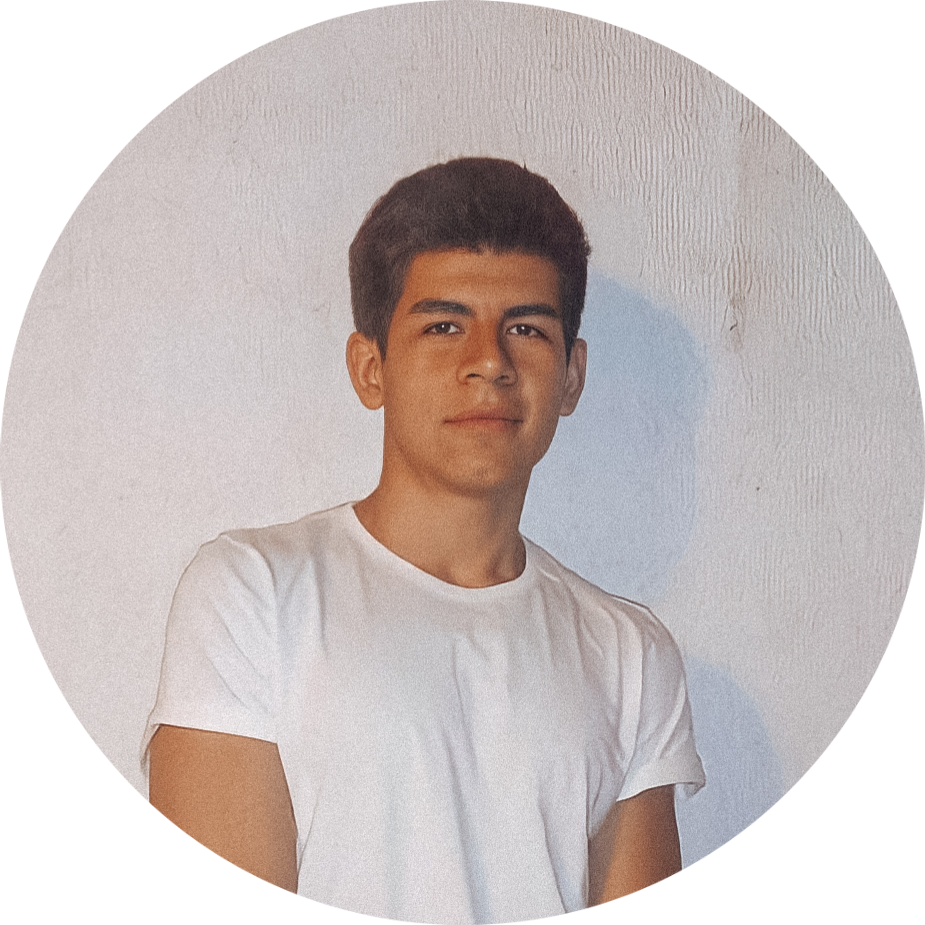
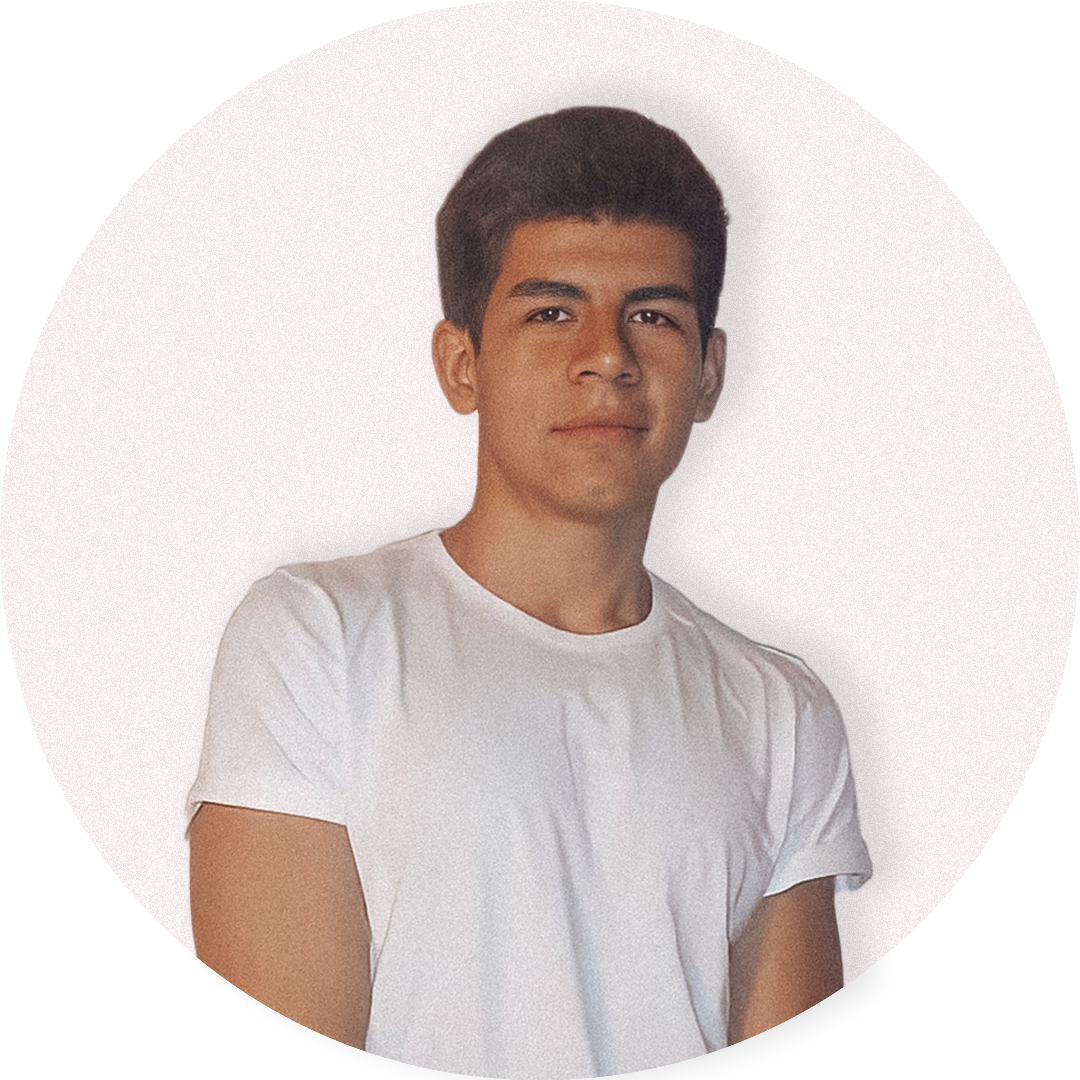
nineteenth commit

diff --git a/tailwind.config.js b/tailwind.config.js
@@ -3,128 +3,13 @@ export default {
   content: [
     "./index.html",
     "./src/**/*.{js,ts,jsx,tsx}",
-
-    // Path to the Tremor module
-    "./node_modules/@tremor/**/*.{js,ts,jsx,tsx}",
   ],
   theme: {
-    transparent: "transparent",
-    current: "currentColor",
     extend: {
       colors: {
-        // light mode
-        tremor: {
-          brand: {
-            faint: "#eff6ff", // blue-50
-            muted: "#bfdbfe", // blue-200
-            subtle: "#60a5fa", // blue-400
-            DEFAULT: "#3b82f6", // blue-500
-            emphasis: "#1d4ed8", // blue-700
-            inverted: "#ffffff", // white
-          },
-          background: {
-            muted: "#f9fafb", // gray-50
-            subtle: "#f3f4f6", // gray-100
-            DEFAULT: "#ffffff", // white
-            emphasis: "#374151", // gray-700
-          },
-          border: {
-            DEFAULT: "#e5e7eb", // gray-200
-          },
-          ring: {
-            DEFAULT: "#e5e7eb", // gray-200
-          },
-          content: {
-            subtle: "#9ca3af", // gray-400
-            DEFAULT: "#6b7280", // gray-500
-            emphasis: "#374151", // gray-700
-            strong: "#111827", // gray-900
-            inverted: "#ffffff", // white
-          },
-        },
-        // dark mode
-        "dark-tremor": {
-          brand: {
-            faint: "#0B1229", // custom
-            muted: "#172554", // blue-950
-            subtle: "#1e40af", // blue-800
-            DEFAULT: "#3b82f6", // blue-500
-            emphasis: "#60a5fa", // blue-400
-            inverted: "#030712", // gray-950
-          },
-          background: {
-            muted: "#131A2B", // custom
-            subtle: "#1f2937", // gray-800
-            DEFAULT: "#111827", // gray-900
-            emphasis: "#d1d5db", // gray-300
-          },
-          border: {
-            DEFAULT: "#1f2937", // gray-800
-          },
-          ring: {
-            DEFAULT: "#1f2937", // gray-800
-          },
-          content: {
-            subtle: "#4b5563", // gray-600
-            DEFAULT: "#6b7280", // gray-500
-            emphasis: "#e5e7eb", // gray-200
-            strong: "#f9fafb", // gray-50
-            inverted: "#000000", // black
-          },
-        },
-      },
-      boxShadow: {
-        // light
-        "tremor-input": "0 1px 2px 0 rgb(0 0 0 / 0.05)",
-        "tremor-card": "0 1px 3px 0 rgb(0 0 0 / 0.1), 0 1px 2px -1px rgb(0 0 0 / 0.1)",
-        "tremor-dropdown": "0 4px 6px -1px rgb(0 0 0 / 0.1), 0 2px 4px -2px rgb(0 0 0 / 0.1)",
-        // dark
-        "dark-tremor-input": "0 1px 2px 0 rgb(0 0 0 / 0.05)",
-        "dark-tremor-card": "0 1px 3px 0 rgb(0 0 0 / 0.1), 0 1px 2px -1px rgb(0 0 0 / 0.1)",
-        "dark-tremor-dropdown": "0 4px 6px -1px rgb(0 0 0 / 0.1), 0 2px 4px -2px rgb(0 0 0 / 0.1)",
-      },
-      borderRadius: {
-        "tremor-small": "0.375rem",
-        "tremor-default": "0.5rem",
-        "tremor-full": "9999px",
-      },
-      fontSize: {
-        "tremor-label": ["0.75rem"],
-        "tremor-default": ["0.875rem", { lineHeight: "1.25rem" }],
-        "tremor-title": ["1.125rem", { lineHeight: "1.75rem" }],
-        "tremor-metric": ["1.875rem", { lineHeight: "2.25rem" }],
       },
     },
   },
-  safelist: [
-    {
-      pattern:
-        /^(bg-(?:slate|gray|zinc|neutral|stone|red|orange|amber|yellow|lime|green|emerald|teal|cyan|sky|blue|indigo|violet|purple|fuchsia|pink|rose)-(?:50|100|200|300|400|500|600|700|800|900|950))$/,
-      variants: ["hover", "ui-selected"],
-    },
-    {
-      pattern:
-        /^(text-(?:slate|gray|zinc|neutral|stone|red|orange|amber|yellow|lime|green|emerald|teal|cyan|sky|blue|indigo|violet|purple|fuchsia|pink|rose)-(?:50|100|200|300|400|500|600|700|800|900|950))$/,
-      variants: ["hover", "ui-selected"],
-    },
-    {
-      pattern:
-        /^(border-(?:slate|gray|zinc|neutral|stone|red|orange|amber|yellow|lime|green|emerald|teal|cyan|sky|blue|indigo|violet|purple|fuchsia|pink|rose)-(?:50|100|200|300|400|500|600|700|800|900|950))$/,
-      variants: ["hover", "ui-selected"],
-    },
-    {
-      pattern:
-        /^(ring-(?:slate|gray|zinc|neutral|stone|red|orange|amber|yellow|lime|green|emerald|teal|cyan|sky|blue|indigo|violet|purple|fuchsia|pink|rose)-(?:50|100|200|300|400|500|600|700|800|900|950))$/,
-    },
-    {
-      pattern:
-        /^(stroke-(?:slate|gray|zinc|neutral|stone|red|orange|amber|yellow|lime|green|emerald|teal|cyan|sky|blue|indigo|violet|purple|fuchsia|pink|rose)-(?:50|100|200|300|400|500|600|700|800|900|950))$/,
-    },
-    {
-      pattern:
-        /^(fill-(?:slate|gray|zinc|neutral|stone|red|orange|amber|yellow|lime|green|emerald|teal|cyan|sky|blue|indigo|violet|purple|fuchsia|pink|rose)-(?:50|100|200|300|400|500|600|700|800|900|950))$/,
-    },
-  ],
   plugins: [],
 }
 

diff --git a/src/Components/ProyectoFrontend/ProyectoDeFrontend.jsx b/src/Components/ProyectoFrontend/ProyectoDeFrontend.jsx
@@ -19,7 +19,7 @@ function ProyectoDeFrontend() {
           <a href="https://ecommerce-alvarez-felipe.vercel.app/" target="_blank" rel="noreferrer">
             <img
               src="https://i.ibb.co/D9xtbJ5/e-commerce.webp"
-              alt="Portada del Sitio Web del e-commerce" width="600" height="400"
+              alt="Portada del Sitio Web del e-commerce" width="100%"
             />
           </a>
           <div className="p-5">
@@ -98,27 +98,27 @@ function ProyectoDeFrontend() {
             </p>
 
 
-              <div className="flex justify-between mt-5 md:grid md:grid-cols-3">
-                <a href="https://inmobiliariamyc.netlify.app/" target="_blank" rel="noreferrer">
-                  <button className="btn flex items-center">
-                    <span className="hover-underline-animation">Despliegue</span>
-                  </button>
-                </a>
+            <div className="flex justify-between mt-5 md:grid md:grid-cols-3">
+              <a href="https://inmobiliariamyc.netlify.app/" target="_blank" rel="noreferrer">
+                <button className="btn flex items-center">
+                  <span className="hover-underline-animation">Despliegue</span>
+                </button>
+              </a>
 
-                <a href="https://www.figma.com/file/NnoQX26vZaqmAtqmYnhDgR/Maquetaci%C3%B3n-Inmobiliaria-M%26C?type=design&node-id=1-2&mode=design"
-                  target="_blank" rel="noreferrer">
-                  <button className="btn flex items-center">
-                    <span className="hover-underline-animation">Maquetado</span>
-                  </button>
-                </a>
+              <a href="https://www.figma.com/file/NnoQX26vZaqmAtqmYnhDgR/Maquetaci%C3%B3n-Inmobiliaria-M%26C?type=design&node-id=1-2&mode=design"
+                target="_blank" rel="noreferrer">
+                <button className="btn flex items-center">
+                  <span className="hover-underline-animation">Maquetado</span>
+                </button>
+              </a>
 
-                <a href="https://github.com/alvarezfelipedev/inmobiliaria-alvarez"
-                  target="_blank" rel="noreferrer">
-                  <button className="btn flex items-center">
-                    <span className="hover-underline-animation">Repositorio</span>
-                  </button>
-                </a>
-              </div>
+              <a href="https://github.com/alvarezfelipedev/inmobiliaria-alvarez"
+                target="_blank" rel="noreferrer">
+                <button className="btn flex items-center">
+                  <span className="hover-underline-animation">Repositorio</span>
+                </button>
+              </a>
+            </div>
           </div>
         </div>
 

diff --git a/index.html b/index.html
@@ -9,11 +9,11 @@
     content="Front-End Developer con +1 año de experiencia con React, TailwindCSS, Bootstrap, Sass, CSS y diseño con Figma. Actualmente trabajando como QA Tester, realizando casos de prueba en Azure, armado de documentación, test de API's y uso de SQL. Contactame para saber más.">
   <meta property="og:locale" content="es_ES" />
   <meta name="theme-color" content="#000000" />
-  <link rel="icon" href="/src/assets/favicon.ico" type="image/x-icon">
-  <link rel="icon" href="/src/assets/favicon48x48.png" sizes="48x48" type="image/x-icon">
-  <link rel="icon" href="/src/assets/favicon32x32.png" sizes="32x32" type="image/x-icon">
-  <link rel="icon" href="/src/assets/favicon16x16.png" sizes="16x16" type="image/x-icon">
-  <link rel="apple-touch-icon" sizes="180x180" href="/src/assets/favicon180x180.png">
+  <link rel="icon" href="favicon.ico" type="image/x-icon">
+  <link rel="icon" href="favicon48x48.png" sizes="48x48" type="image/x-icon">
+  <link rel="icon" href="favicon32x32.png" sizes="32x32" type="image/x-icon">
+  <link rel="icon" href="favicon16x16.png" sizes="16x16" type="image/x-icon">
+  <link rel="apple-touch-icon" sizes="180x180" href="favicon180x180.png">
   <meta name="robots" content="index, follow">
   <meta name="google-site-verification" content="whqOjuf06bbGEthA_TFPLz45SGljscfVVdnoXmG7HTs" />
   <!-- Facebook Meta Tags -->

diff --git a/src/Components/Presentacion/presentacion.css b/src/Components/Presentacion/presentacion.css
@@ -1,7 +1,7 @@
 .foto-perfil {
     width: 300px;
     height: 280px;
-    margin-top: 50px;
+    margin-top: 25px;
 }
 
 .titulo-pregunta {
@@ -17,7 +17,7 @@
 
 @media screen and (max-width: 1024px) {
     .foto-perfil {
-        width: 300px;
+        width: 250px;
         height: 250px;
         display: block;
         margin: 1.5rem;
@@ -27,14 +27,14 @@
 
 @media screen and (max-width: 640px) {
     .foto-perfil {
-        width: 300px;
-        height: 300px;
+        width: 200px;
+        height: 200px;
         display: block;
         margin-left: auto;
         margin-right: auto;
         margin-top: 15px;
     }
 
-    
+
 
 }

diff --git a/src/Home.jsx b/src/Home.jsx
@@ -10,7 +10,7 @@ function Home() {
     return (
         <>
             <NavBar />
-            <div className="mx-2 md:mx-48 ">
+            <div className="mx-2 md:mx-10 lg:mx-24 xl:mx-48 2xl:mx-56 ">
                 <Presentacion />
                 <Skills />
                 <PracticasDeQA />
